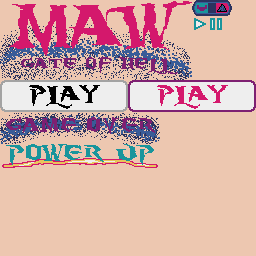
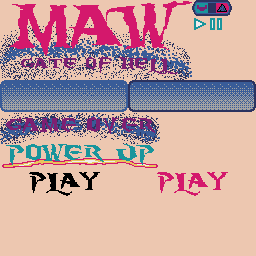
TD: button rework in preparation for power-ups

Changed region(s): [[0.0, 0.3125, 1.0, 0.4375], [0.625, 0.6562, 0.9062, 0.7812], [0.125, 0.6562, 0.4062, 0.7812]]

diff --git a/td/game_loop.py b/td/game_loop.py
@@ -8,21 +8,22 @@ from game_load import load_level
 
 from ui import UI # Note: important that this not be imported as td.ui to preserve singleton weirdness
 
-DEBUG_START_GAME_LEVEL=False
-DEBUG_START_GAME_OVER=False
+DEBUG_SKIP_TITLE_SCREEN=False
+DEBUG_TRIGGER_POWER_UP= False
+DEBUG_TRIGGER_GAME_OVER=False
 
 @dataclass
-class UpdateQueueItem:
+class _Update:
     type: str
     params: Optional[Any] = None
 
-update_queue: list[UpdateQueueItem] = []
+update_queue: list[_Update] = []
 
 def start(game: CellAutoGame):
-    if DEBUG_START_GAME_LEVEL:
+    if DEBUG_SKIP_TITLE_SCREEN:
         load_level(game)
         ui_game_screen_fade_in_complete(None)
-    elif DEBUG_START_GAME_OVER:
+    elif DEBUG_TRIGGER_GAME_OVER:
         UI.show_game_over_screen(game)
     else:
         UI.show_title_screen(game)
@@ -74,6 +75,8 @@ def _process_update_queue(game: CellAutoGame):
                 UI.show_game_over_screen(game)
             case "ui_hide_game_over_screen":
                 UI.hide_game_over_screen(game)
+            case "ui_display_power_up":
+                UI.show_power_up(game)
             case _:
                 log_error(f"game_loop._process_update_queue() unrecognised type:{u.type}")
     update_queue.clear()
@@ -119,7 +122,7 @@ def enemy_attacks(game: CellAutoGame, other: float):
         # Important: we don't trigger game over as soon as the health % == 0
         # Once it hits zero the player still has one more chance to survive.
         # It is only the first attack below zero that causes game over
-        update_queue.append(UpdateQueueItem("game_over"))
+        update_queue.append(_Update("game_over"))
         return
     
     damage = other
@@ -132,35 +135,38 @@ def enemy_spawns_enemy(sender, other):
     name: str = sender
     x: int = other[0]
     y: int = other[1]
-    update_queue.append(UpdateQueueItem("launch_enemy", (name, x, y)))
+    update_queue.append(_Update("launch_enemy", (name, x, y)))
 
 def weapon_deactivate_at_location(sender):
     location_id = sender
-    update_queue.append(UpdateQueueItem("deactivate_weapon", location_id))
+    update_queue.append(_Update("deactivate_weapon", location_id))
 
 def ui_title_screen_selected(sender):
-    update_queue.append(UpdateQueueItem("ui_display_title_screen"))
+    update_queue.append(_Update("ui_display_title_screen"))
 
 def ui_game_start_selected(sender):
-    update_queue.append(UpdateQueueItem("ui_fade_from_title_to_game"))
+    update_queue.append(_Update("ui_fade_from_title_to_game"))
 
 def ui_title_screen_fade_out_complete(sender):
-    update_queue.append(UpdateQueueItem("load_level"))
+    update_queue.append(_Update("load_level"))
 
 def ui_game_screen_fade_in_complete(sender):
     STATE.start()
     UI.state_to("select_location")
     UI.life_meter.set_percentage(STATE.health_percentage)
 
+    if DEBUG_TRIGGER_POWER_UP:
+        update_queue.append(_Update("ui_display_power_up"))
+
 def ui_weapon_selected(type: str):
     # The order is important - hide_weapon_ui clears STATE.launch_location
     # which is required by launch_weapon
-    update_queue.append(UpdateQueueItem("launch_weapon", type))
-    update_queue.append(UpdateQueueItem("hide_weapon_ui"))
+    update_queue.append(_Update("launch_weapon", type))
+    update_queue.append(_Update("hide_weapon_ui"))
 
 def ui_game_over_fade_out_complete(sender):
-    update_queue.append(UpdateQueueItem("ui_display_game_over_screen"))
+    update_queue.append(_Update("ui_display_game_over_screen"))
 
 def ui_game_over_restart_selected(sender):
-    update_queue.append(UpdateQueueItem("ui_hide_game_over_screen"))
-    update_queue.append(UpdateQueueItem("ui_display_title_screen"))
+    update_queue.append(_Update("ui_hide_game_over_screen"))
+    update_queue.append(_Update("ui_display_title_screen"))

diff --git a/td/state/weapons.py b/td/state/weapons.py
@@ -28,17 +28,17 @@ class WeaponLocation:
 
     def activate(self, type: str):
         if self._active:
-            log_debug(f"WeaponLocation.activate() KILL {self._type}")
+            # log_debug(f"WeaponLocation.activate() KILL {self._type}")
             self._active.kill()
             self._active = None
         
-        log_debug(f"WeaponLocation.activate() {type}")
+        # log_debug(f"WeaponLocation.activate() {type}")
         self._type = type
         self._previous_launch_time = 0
 
     def deactivate(self):
         if self._active:
-            log_debug(f"WeaponLocation.deactivate() KILL {self._type}")
+            # log_debug(f"WeaponLocation.deactivate() KILL {self._type}")
             self._active.kill()
             self._active = None
         
@@ -91,7 +91,7 @@ class GameWeapons:
         
         for w in to_remove:
             if w._deactivate_upon_death:
-                print(f"DEACTIVATE {w.type} from location {w._location_id}")
+                # log_debug(f"DEACTIVATE {w.type} from location {w._location_id}")
                 Signals.send("weapon_deactivate_at_location", w._location_id)
             self.active.remove(w)
 
@@ -121,8 +121,7 @@ class GameWeapons:
             # log_debug(f"weapons.launch_fungus skipping launch - current fungus is still active")
             return active
         
-        log_debug("weapons.launch_fungus")
-
+        # log_debug("weapons.launch_fungus")
         fungus = Fungus(location.id, location.position)
         fungus.launch(field)
 
@@ -131,8 +130,7 @@ class GameWeapons:
         self.active.append(fungus)
 
     def _launch_meteor(self, location: WeaponLocation, field: Matrix):
-        log_debug("weapons._launch_meteor")
-
+        # log_debug("weapons._launch_meteor")
         meteor = Meteor(location.id, location.position)
         meteor.launch(field)
         
@@ -147,7 +145,7 @@ class GameWeapons:
         if to_enemy:
             to = to_enemy._sprite.position
             to = to.clone_by(0, 20) # TODO - this is not great, just guessing 20 px below
-            log_debug(f"weapons._launch_star at {to_enemy.type} {to}")
+            # log_debug(f"weapons._launch_star at {to_enemy.type} {to}")
         else:
             to_x = 0
             if position.x >= 160: # right
@@ -156,7 +154,7 @@ class GameWeapons:
                 to_x = position.x - random.randint(10, 80)
             to_y = position.y - random.randint(80, 120)
             to = Coord.with_xy(to_x, to_y)
-            log_debug(f"weapons._launch_star random {to}")
+            # log_debug(f"weapons._launch_star random {to}")
 
         star = Star(location.id, location.position, to)
         star.launch(field)
@@ -166,8 +164,7 @@ class GameWeapons:
         self.active.append(star)
 
     def _launch_bolt(self, location: WeaponLocation, field: Matrix):
-        log_debug("weapons._launch_bolt")
-
+        # log_debug("weapons._launch_bolt")
         bolt = Bolt(location.id, location.position, location.orientation)
         bolt.launch(field)
 

diff --git a/td/ui/weapon_select.py b/td/ui/weapon_select.py
@@ -5,30 +5,22 @@ from pyke_pyxel.drawable import Button
 from pyke_pyxel.game import Game
 from pyke_pyxel.signals import Signals
 
+up = Coord(9, 9)
+down = Coord(13, 9)
+
 @dataclass
 class buttons:
-    star = Button("star", 
-                up_frame=Coord(25,13), 
-                down_frame=Coord(29,13),
-                col_tile_count=4, 
-                row_tile_count=4)
-    bolt = Button("bolt", 
-                up_frame=Coord(1,13), 
-                down_frame=Coord(5,13),
-                col_tile_count=4, 
-                row_tile_count=4)
-    fungus = Button("fungus", 
-                up_frame=Coord(9,13), 
-                down_frame=Coord(13,13),
-                col_tile_count=4, 
-                row_tile_count=4)
-    meteor = Button("meteor", 
-                up_frame=Coord(17,13), 
-                down_frame=Coord(21,13),
-                col_tile_count=4, 
-                row_tile_count=4)
+    star = Button("star", up, down, 4, 4)
+    bolt = Button("bolt", up, down, 4, 4)
+    fungus = Button("fungus", up, down, 4, 4)
+    meteor = Button("meteor", up, down, 4, 4)
 
 BUTTONS = buttons()
+BUTTONS.bolt.set_icon(Coord(1,13), Coord(5,13))
+BUTTONS.fungus.set_icon(Coord(9,13), Coord(13,13))
+BUTTONS.meteor.set_icon(Coord(17,13), Coord(21,13))
+BUTTONS.star.set_icon(Coord(25,13), Coord(29,13))
+
 
 def display(game: Game):  
     BUTTONS.star.set_position(Coord(12, 36))
@@ -64,14 +56,10 @@ def mouse_down(x: int, y: int) -> bool:
         return False
     
 def mouse_move(x: int, y: int):
-    if BUTTONS.star.is_down and not BUTTONS.star.contains(x, y):
-        BUTTONS.star.pop_up()
-    elif BUTTONS.bolt.is_down and not BUTTONS.bolt.contains(x, y):
-        BUTTONS.bolt.pop_up()
-    elif BUTTONS.fungus.is_down and not BUTTONS.fungus.contains(x, y):
-        BUTTONS.fungus.pop_up()
-    elif BUTTONS.meteor.is_down and not BUTTONS.meteor.contains(x, y):
-        BUTTONS.meteor.pop_up()
+    BUTTONS.bolt.check_mouse_move(x, y)
+    BUTTONS.fungus.check_mouse_move(x, y)
+    BUTTONS.meteor.check_mouse_move(x, y)
+    BUTTONS.star.check_mouse_move(x, y)
 
 def mouse_up():
     if BUTTONS.star.is_down:

diff --git a/td/ui/power_up.py b/td/ui/power_up.py
@@ -1,0 +1,41 @@
+
+from pyke_pyxel import Coord
+from pyke_pyxel import COLOURS
+from pyke_pyxel.drawable import Image, Rect
+from pyke_pyxel.game import Game
+from pyke_pyxel.signals import Signals
+
+image = Image(Coord(1, 19), col_tile_count=20, row_tile_count=4, resource_image_index=1)
+image.set_position(Coord(10, 7))
+
+def _show_options(game: Game):
+    bg = Rect(position=Coord(8, 6), col_count=24, row_count=30)
+    bg.set_background(COLOURS.BLACK)
+    bg.set_border(COLOURS.BLUE_DARK, 2)
+    game.hud.add_bg(bg)
+    game.hud.add_bg(image)
+
+def display(game: Game):
+    def intro_complete(sender):
+        game.pause()
+        Signals.disconnect("ui_power_up_intro_complete", intro_complete)
+        _show_options(game)
+
+    Signals.connect("ui_power_up_intro_complete", intro_complete)
+    game.fx.scale_in(image, duration=0.3, completion_signal="ui_power_up_intro_complete")
+
+def mouse_down(x: int, y: int):
+    pass
+    # if play_button.contains(x, y):
+    #    play_button.push_down()
+
+def mouse_up():
+    pass
+    #if play_button.is_down:
+    #    play_button.pop_up()
+    #    Signals.send("ui_game_start_selected", None)
+
+def mouse_move(x: int, y: int):
+    pass
+    #if not play_button.contains(x, y):
+    #    play_button.pop_up()

diff --git a/td/ui/title_screen.py b/td/ui/title_screen.py
@@ -3,16 +3,19 @@ from pyke_pyxel.drawable import Image, Button
 from pyke_pyxel.game import Game
 from pyke_pyxel.signals import Signals
 
-image = Image(Coord(1, 1), Coord(9, 10), col_tile_count=24, row_tile_count=10, resource_image_index=1)
+image = Image(Coord(1, 1), col_tile_count=24, row_tile_count=10, resource_image_index=1)
+image.set_position(Coord(9, 10))
+
 play_button = Button("play_button", Coord(1, 11), Coord(17, 11), col_tile_count=16, row_tile_count=4, resource_image_index=1)
+play_button.set_icon(Coord(1, 22), Coord(17, 22))
+play_button.set_position(Coord(12, 24))
 
 def display(game: Game):
-    game.hud.add_image(image)
-    play_button.set_position(Coord(12, 24))
+    game.hud.add_bg(image)
     game.hud.add_button(play_button)
 
 def hide(game: Game):
-    game.hud.remove_image(image)
+    game.hud.remove_bg(image)
     game.hud.remove_button(play_button)
 
 def mouse_down(x: int, y: int):
@@ -25,5 +28,4 @@ def mouse_up():
         Signals.send("ui_game_start_selected", None)
 
 def mouse_move(x: int, y: int):
-    if not play_button.contains(x, y):
-        play_button.pop_up()
+    play_button.check_mouse_move(x, y)

diff --git a/td/ui/__init__.py b/td/ui/__init__.py
@@ -1,6 +1,7 @@
 from pyke_pyxel import Coord
 from pyke_pyxel.game import Game
 from td.state import STATE
+from td.ui import power_up
 
 from ._ui import _UI
 from . import title_screen
@@ -43,6 +44,8 @@ def mouse_move(game: Game, other: tuple[int, int]):
 
         case "select_weapon":
             weapon_select.mouse_move(x, y)
+        case "select_power_up":
+            power_up.mouse_move(x, y)
         case "select_game_over_option":
             game_over_screen.mouse_move(x, y)
 
@@ -69,6 +72,8 @@ def mouse_down(game: Game, other: tuple[int, int]):
         case "select_weapon":
             if not weapon_select.mouse_down(x, y):
                 UI.hide_weapons_ui(game)
+        case "select_power_up":
+            power_up.mouse_down(x, y)
         case "select_game_over_option":
             game_over_screen.mouse_down(x, y)
 
@@ -80,6 +85,8 @@ def mouse_up(game: Game):
             pass
         case "select_weapon":
             weapon_select.mouse_up()
+        case "select_power_up":
+            power_up.mouse_up()
         case "select_game_over_option":
             game_over_screen.mouse_up()
 

diff --git a/td/ui/_ui.py b/td/ui/_ui.py
@@ -12,6 +12,7 @@ from .life_meter import LifeMeter
 from . import title_screen
 from . import weapon_select
 from . import game_over_screen
+from . import power_up
 
 class _UI:
 
@@ -63,6 +64,10 @@ class _UI:
     def hide_game_over_screen(self, game: Game):
         game_over_screen.hide(game)
 
+    def show_power_up(self, game: Game):
+        power_up.display(game)
+        self.state_to("select_power_up")
+
     def set_weapon_marker(self, name: str, location: WeaponLocation, game: Game):
         if location.marker:
             game.hud.remove_sprite(location.marker)
@@ -96,4 +101,7 @@ class _UI:
         self._state = "wait"
 
     def state_is_waiting(self):
-        return self._state == "wait" or self._state == "select_title_option" or self._state == "select_game_over_option"
+        return self._state == "wait" or self._state == "select_title_option" or self._state == "select_game_over_option" or self._state == "select_power_up"
+
+UI = _UI()
+

diff --git a/td/ui/game_over_screen.py b/td/ui/game_over_screen.py
@@ -3,14 +3,15 @@ from pyke_pyxel.drawable import Image
 from pyke_pyxel.game import Game
 from pyke_pyxel.signals import Signals
 
-image = Image(Coord(1, 15), Coord(11, 12), col_tile_count=20, row_tile_count=4, resource_image_index=1)
+image = Image(Coord(1, 15), col_tile_count=20, row_tile_count=4, resource_image_index=1)
+image.set_position(Coord(10, 12))
 
 def display(game: Game):
-    game.hud.add_image(image)
+    game.hud.add_bg(image)
     # print(f"GAME OVER AT {image.position.x}")
 
 def hide(game: Game):
-    game.hud.remove_image(image)
+    game.hud.remove_bg(image)
 
 def mouse_down(x: int, y: int):
     pass

diff --git a/td/main.py b/td/main.py
@@ -47,5 +47,6 @@ Signals.connect("ui_game_start_selected", game_loop.ui_game_start_selected)
 Signals.connect("ui_weapon_selected", game_loop.ui_weapon_selected)
 Signals.connect("ui_game_over_fade_out_complete", game_loop.ui_game_over_fade_out_complete)
 Signals.connect("ui_game_over_restart_selected", game_loop.ui_game_over_restart_selected)
+# NOTE "ui_power_up_intro_complete" is implemented in ui/power_up.py
 
 game.start()
